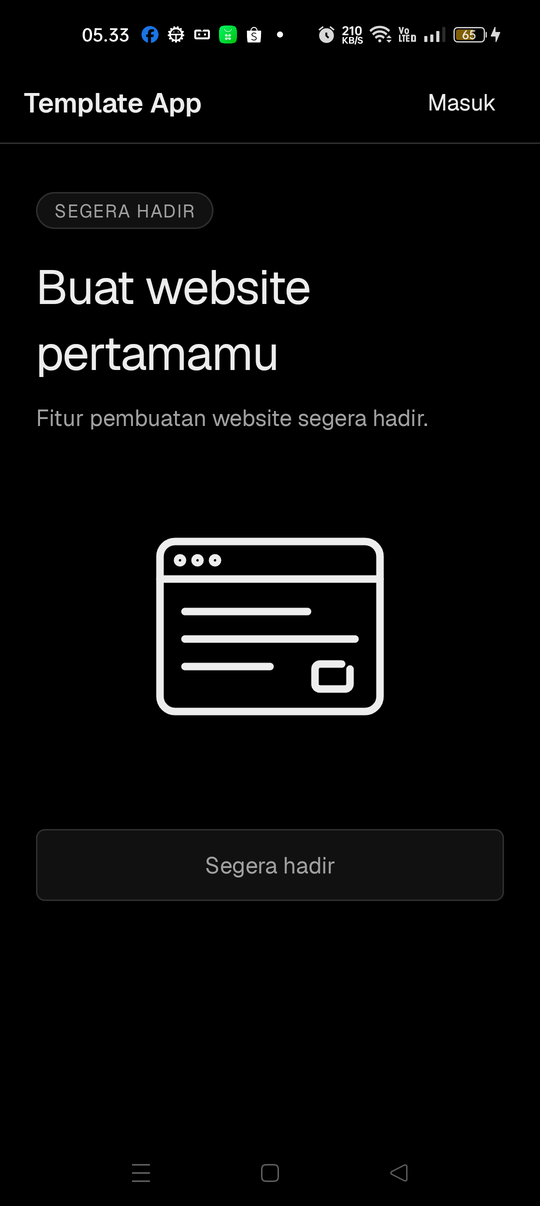
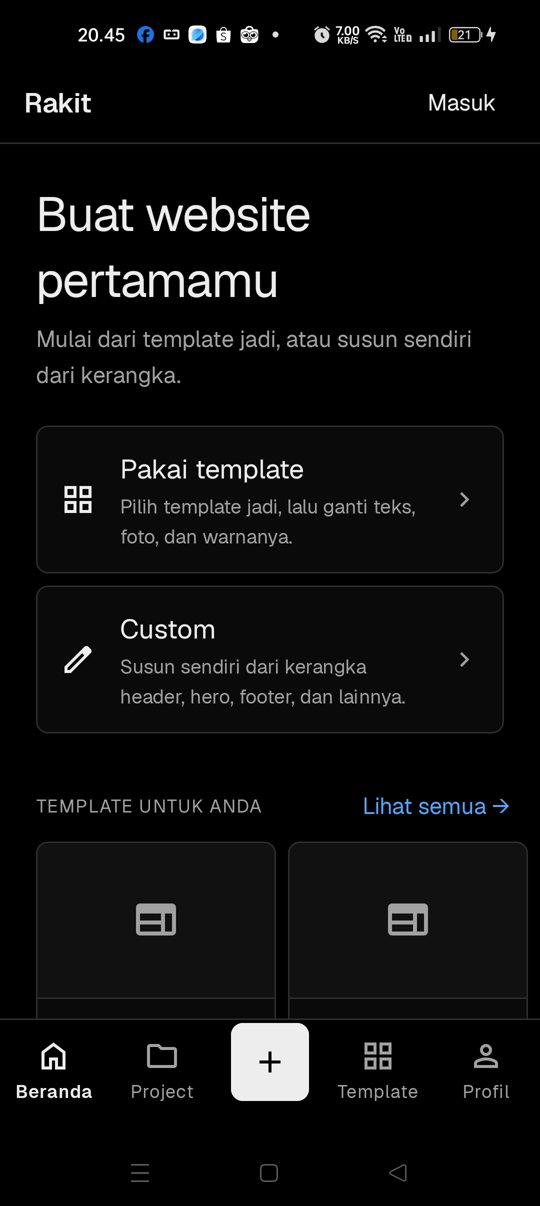
fase-14: perbaikan hasil uji di HP, screenshot pembuat website, hasil uji lengkap
- Tombol Simpan Edit profil selebar layar; garis grup Akun ikut tersembunyi untuk tamu
- Screenshot 02 (Beranda tamu) diganti, 16–20 ditambah, 09 (menu profil) dihapus
- Catatan belajar: hasil uji tamu, "Dilihat", offline, edit profil; project per HP

diff --git a/android/app/src/main/java/com/aris/templateapp/ui/creator/CreatorProfileEditFragment.java b/android/app/src/main/java/com/aris/templateapp/ui/creator/CreatorProfileEditFragment.java
@@ -4,6 +4,7 @@ import android.os.Bundle;
 import android.view.LayoutInflater;
 import android.view.View;
 import android.view.ViewGroup;
+import android.widget.LinearLayout;
 
 import androidx.annotation.NonNull;
 import androidx.annotation.Nullable;
@@ -47,7 +48,10 @@ public class CreatorProfileEditFragment extends Fragment {
         binding.toolbar.setNavigationOnClickListener(v -> NavHostFragment.findNavController(this).navigateUp());
         binding.formTitle.setText(R.string.profile_edit_title);
         binding.formSubtitle.setText(R.string.profile_creator_edit_subtitle);
+        // Tanpa "Lewati", tombol Simpan dibuat selebar layar (sama dengan Edit profil provider).
         binding.skipButton.setVisibility(View.GONE);
+        binding.buttonSpacer.setVisibility(View.GONE);
+        binding.startButton.setLayoutParams(new LinearLayout.LayoutParams(0, ViewGroup.LayoutParams.WRAP_CONTENT, 1f));
         binding.startButton.setText(R.string.action_save);
 
         viewModel = new ViewModelProvider(this).get(CreatorProfileEditViewModel.class);

diff --git a/README.md b/README.md
@@ -38,7 +38,7 @@ Diambil dari HP asli (realme, Android 13) dengan akun dummy. File lengkap ada di
 | Layar | Terang | Gelap |
 |---|---|---|
 | Intro | <img src="docs/screenshots/01-intro-terang.png" width="220"> | <img src="docs/screenshots/01-intro-gelap.png" width="220"> |
-| Dashboard pembuat website (tamu) | <img src="docs/screenshots/02-dashboard-tamu-terang.png" width="220"> | <img src="docs/screenshots/02-dashboard-tamu-gelap.png" width="220"> |
+| Beranda pembuat website (tamu, belum punya project) | <img src="docs/screenshots/02-dashboard-tamu-terang.png" width="220"> | <img src="docs/screenshots/02-dashboard-tamu-gelap.png" width="220"> |
 | Masuk | <img src="docs/screenshots/03-masuk-terang.png" width="220"> | <img src="docs/screenshots/03-masuk-gelap.png" width="220"> |
 | Daftar | <img src="docs/screenshots/04-daftar-terang.png" width="220"> | <img src="docs/screenshots/04-daftar-gelap.png" width="220"> |
 | Pilih peran | <img src="docs/screenshots/05-pilih-peran-terang.png" width="220"> | <img src="docs/screenshots/05-pilih-peran-gelap.png" width="220"> |
@@ -49,7 +49,11 @@ Diambil dari HP asli (realme, Android 13) dengan akun dummy. File lengkap ada di
 | Beranda provider baru (checklist) | <img src="docs/screenshots/15-beranda-provider-baru-terang.png" width="220"> | <img src="docs/screenshots/15-beranda-provider-baru-gelap.png" width="220"> |
 | Template Anda | <img src="docs/screenshots/13-template-anda-terang.png" width="220"> | <img src="docs/screenshots/13-template-anda-gelap.png" width="220"> |
 | Detail template + hasil pengecekan | <img src="docs/screenshots/14-detail-template-terang.png" width="220"> | <img src="docs/screenshots/14-detail-template-gelap.png" width="220"> |
-| Menu profil | <img src="docs/screenshots/09-menu-profil-terang.png" width="220"> | <img src="docs/screenshots/09-menu-profil-gelap.png" width="220"> |
+| Beranda pembuat website (punya project) | <img src="docs/screenshots/16-beranda-pembuat-website-terang.png" width="220"> | <img src="docs/screenshots/16-beranda-pembuat-website-gelap.png" width="220"> |
+| Project | <img src="docs/screenshots/17-project-terang.png" width="220"> | <img src="docs/screenshots/17-project-gelap.png" width="220"> |
+| Galeri Template | <img src="docs/screenshots/18-galeri-template-terang.png" width="220"> | <img src="docs/screenshots/18-galeri-template-gelap.png" width="220"> |
+| Profil pembuat website | <img src="docs/screenshots/19-profil-pembuat-website-terang.png" width="220"> | <img src="docs/screenshots/19-profil-pembuat-website-gelap.png" width="220"> |
+| Editor "Segera hadir" | <img src="docs/screenshots/20-editor-segera-hadir-terang.png" width="220"> | <img src="docs/screenshots/20-editor-segera-hadir-gelap.png" width="220"> |
 | Pengaturan | <img src="docs/screenshots/10-pengaturan-terang.png" width="220"> | <img src="docs/screenshots/10-pengaturan-gelap.png" width="220"> |
 | Metode login terhubung | <img src="docs/screenshots/11-metode-login-terang.png" width="220"> | <img src="docs/screenshots/11-metode-login-gelap.png" width="220"> |
 

diff --git a/docs/catatan-belajar/fase-14.md b/docs/catatan-belajar/fase-14.md
@@ -56,7 +56,15 @@ Sumber rancangan: [`docs/rancangan/alur-pembuatan-website.md`](../rancangan/alur
   - Tombol "Pakai template" terlipat 2 baris → gaya tombol ringkas.
   - Jumlah download di kartu galeri terlipat aneh → satu baris label.
   - Tanda kutip di dialog Hapus hilang → tanda kutip “ ”.
-- Belum selesai diuji di HP (layar terkunci): "Dilihat" sebagai tamu, Profil versi tamu, Edit profil pembuat website, mode terang, screenshot. (Saat login sebagai akun demo, "Dilihat" memang tidak bertambah karena event dari pemilik template diabaikan backend.)
+  - Tombol Simpan di Edit profil hanya setengah lebar → selebar layar.
+  - Garis pemisah grup Akun di Pengaturan tertinggal saat tamu → ikut disembunyikan.
+- Uji lanjutan di HP:
+  - Tamu: Beranda (Mulai besar), Profil versi tamu, Pengaturan tanpa grup Akun.
+  - Klik template sebagai tamu → `template_events` bertambah 1 (`type=view`, `install_id` terisi, `user_id` kosong). Saat login sebagai pemilik template (akun demo), angka tidak bertambah, sesuai aturan backend.
+  - Galeri offline (backend mati) → error + Coba lagi, dan berhasil setelah backend menyala.
+  - `dummy3`: Edit profil (tujuan website → Sekolah) tersimpan dan langsung tampil di Profil.
+  - Screenshot terang & gelap: 02 (Beranda tamu), 16–20 di `docs/screenshots/`.
+- Catatan perilaku: project tersimpan **per HP**, belum per akun. Rancangan 4.6 belum punya kolom pemilik, sehingga akun lain di HP yang sama melihat project yang sama. Pemindahan project tamu ke akun memang ditunda (AGENTS 2.2). Ini perlu diputuskan bersama diskusi editor.
 
 ## Konsep yang dipelajari
 - Room: Entity, DAO, Database, `TypeConverter`, LiveData yang otomatis diperbarui, `switchMap`.
